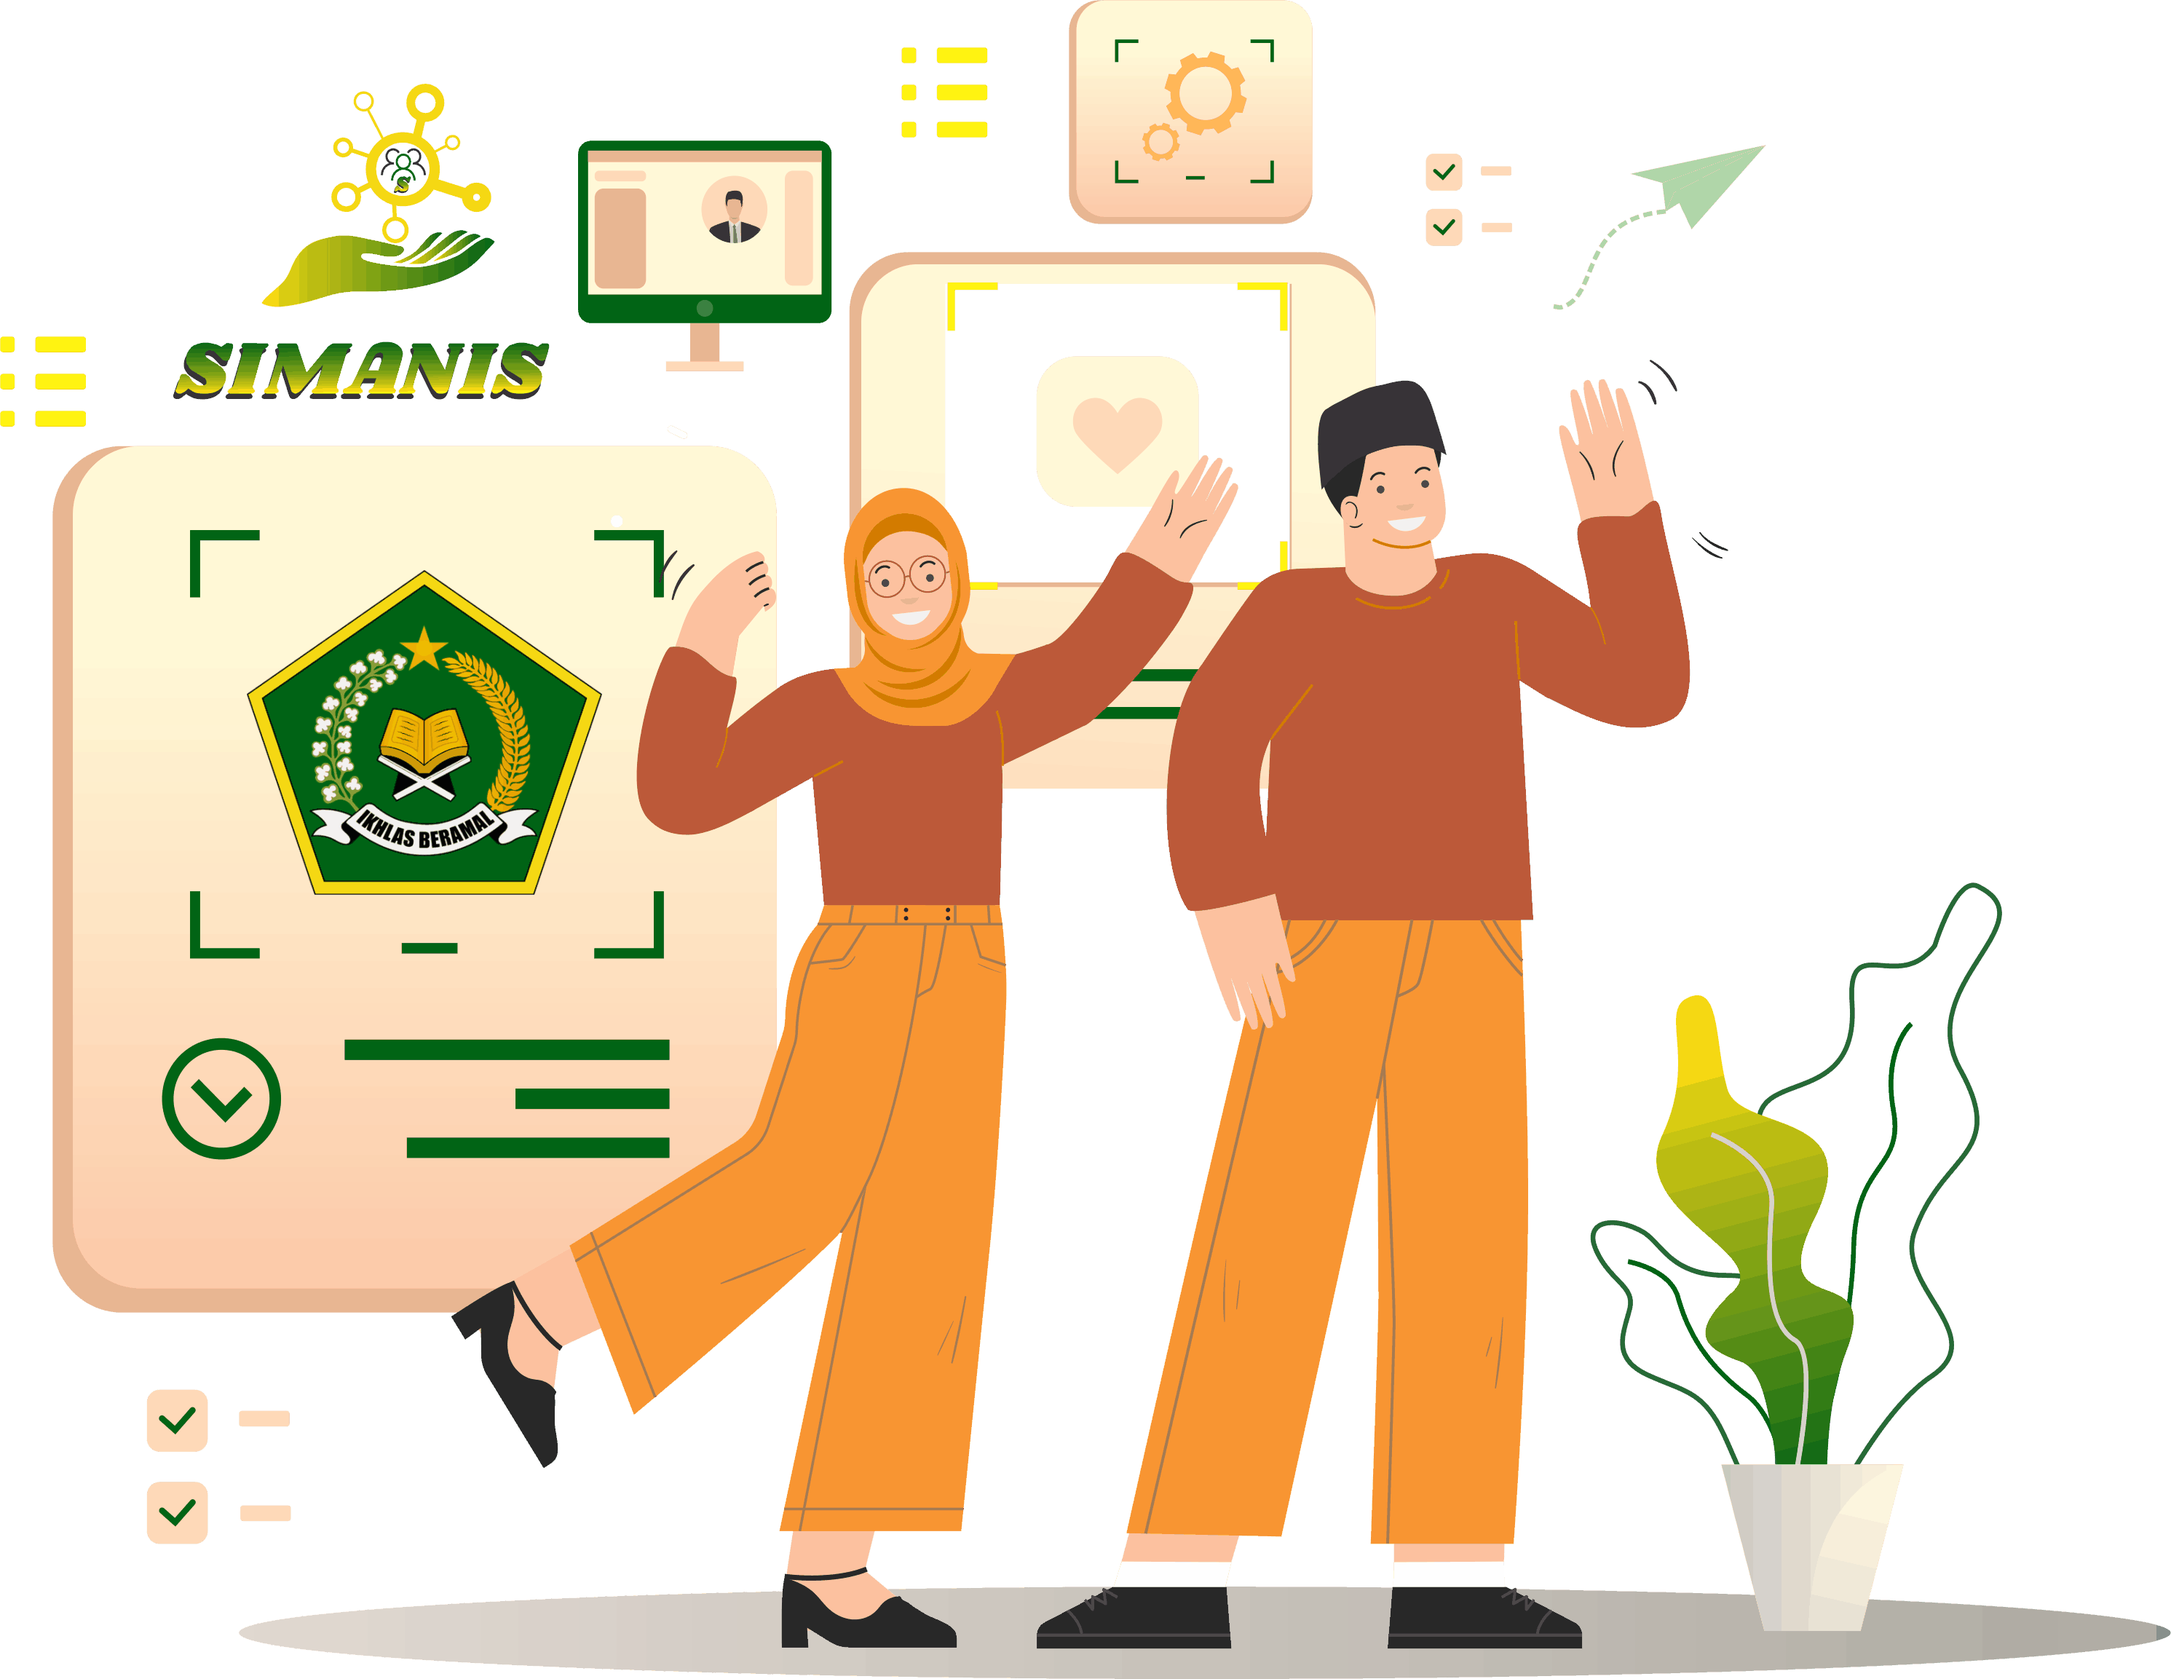
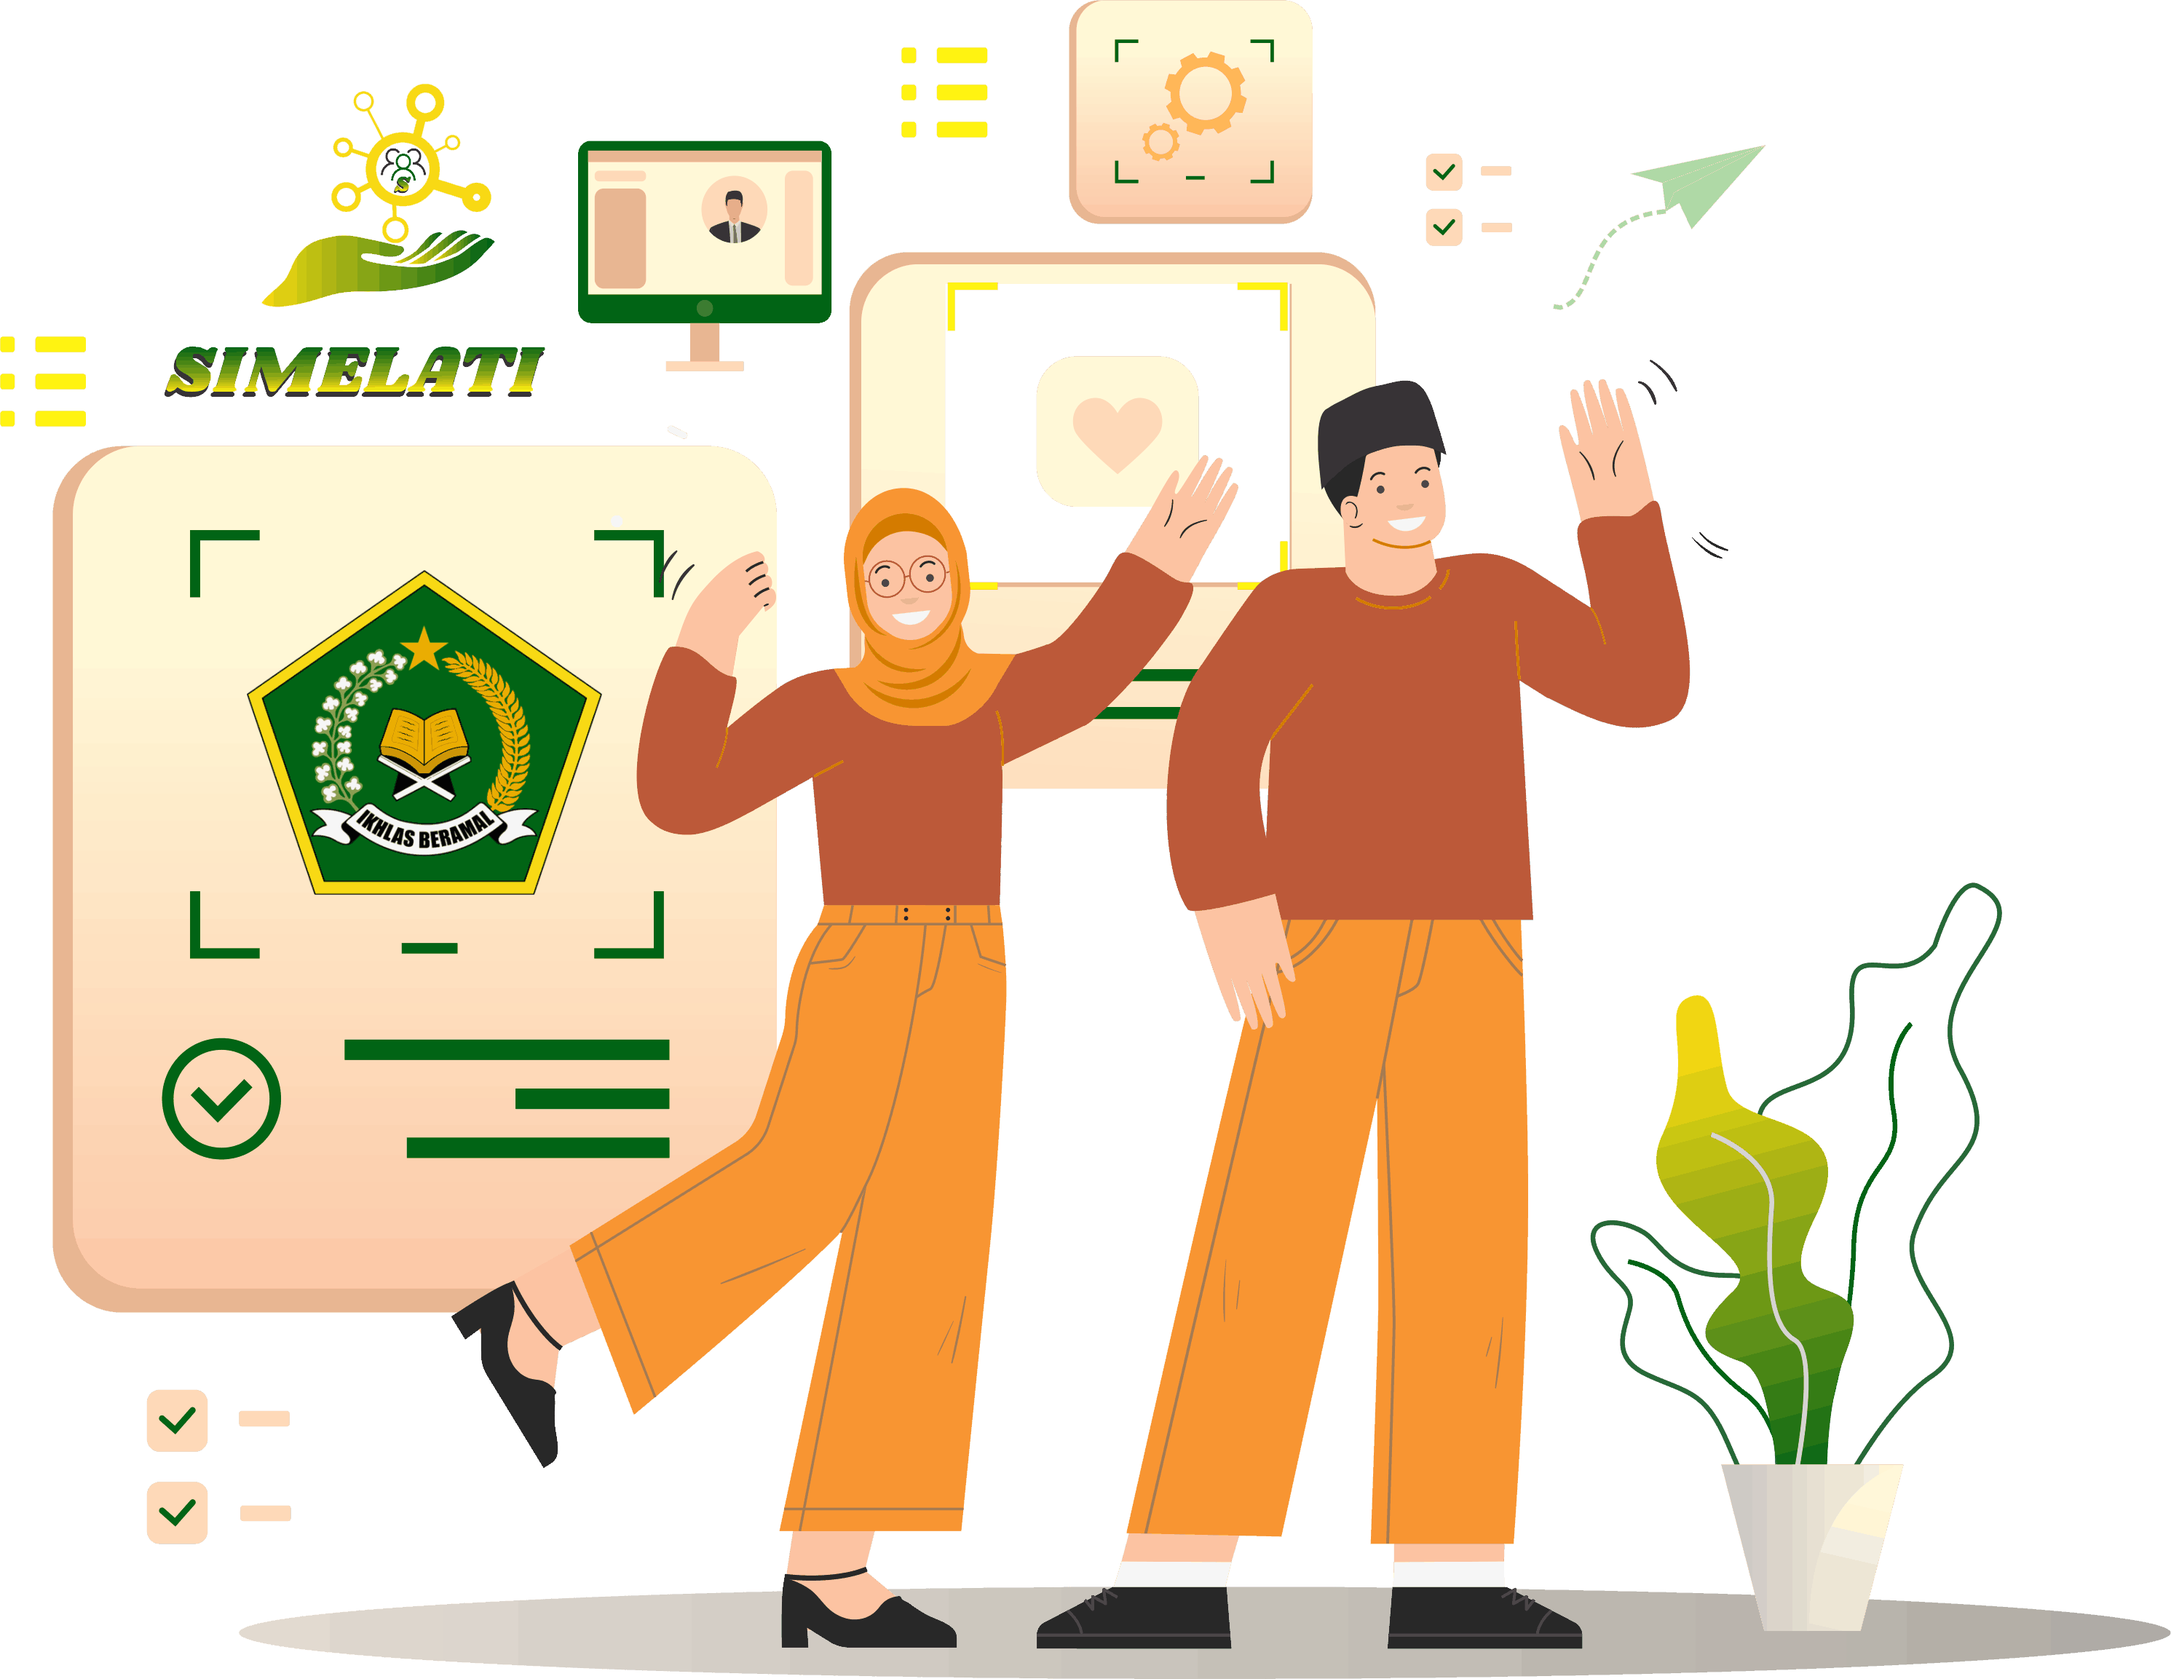
mau pull

diff --git a/application/views/landing/beranda.php b/application/views/landing/beranda.php
@@ -14,10 +14,10 @@
 				<div class="collapse navbar-collapse" id="navb">
 					<ul class="navbar-nav ml-auto mr-3">
 						<li class="nav-item mx-md-2">
-							<a href="<?= base_url('beranda')?>" class="nav-link active">Beranda</a>
+							<a href="<?= base_url('beranda')?>" class="nav-link">Beranda</a>
 						</li>
 						<li class="nav-item mx-md-2">
-							<a href="<?= base_url('profil')?>" class="nav-link">Profil</a>
+							<a href="<?= base_url('profil')?>" class="nav-link active">Profil</a>
 						</li>
 						<li class="nav-item mx-md-2">
 							<a href="<?= base_url('ptsp')?>" class="nav-link">Layanan PTSP</a>
@@ -41,6 +41,7 @@
 			</div>
 		</nav>
 	</div>
+</div>
 </div>
 
 <!-- Header -->

diff --git a/application/views/landing/header/header.php b/application/views/landing/header/header.php
@@ -4,7 +4,7 @@
 <head>
     <meta charset="UTF-8">
     <meta name="viewport" content="width=device-width, initial-scale=1.0">
-    <title>SIMANIS - Kemenag Klaten</title>
+    <title>SIMELATI - Kemenag Klaten</title>
     <!--Tittle Icon-->
     <link rel="shortcut icon" href="<?= base_url('/assets/landing/images/') ?>title.png" />
 
